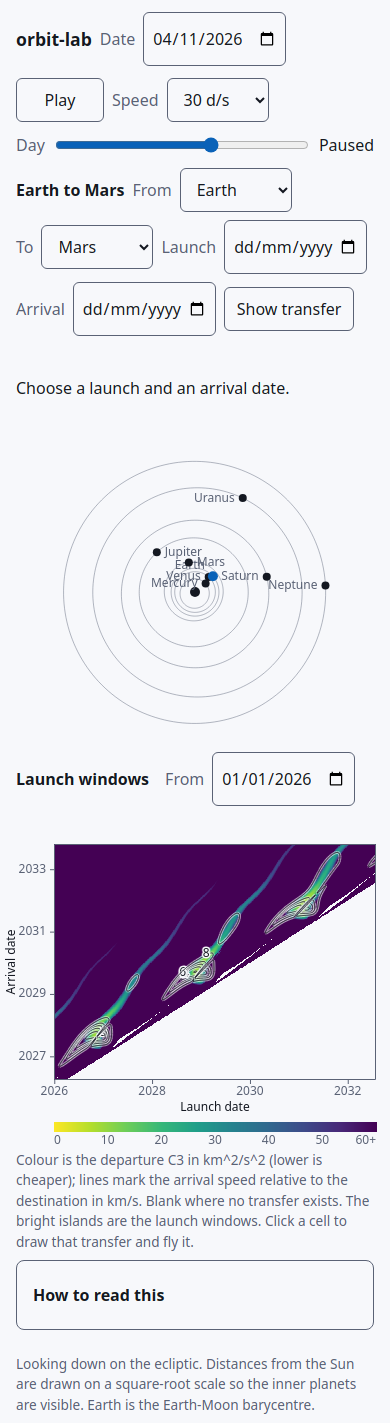
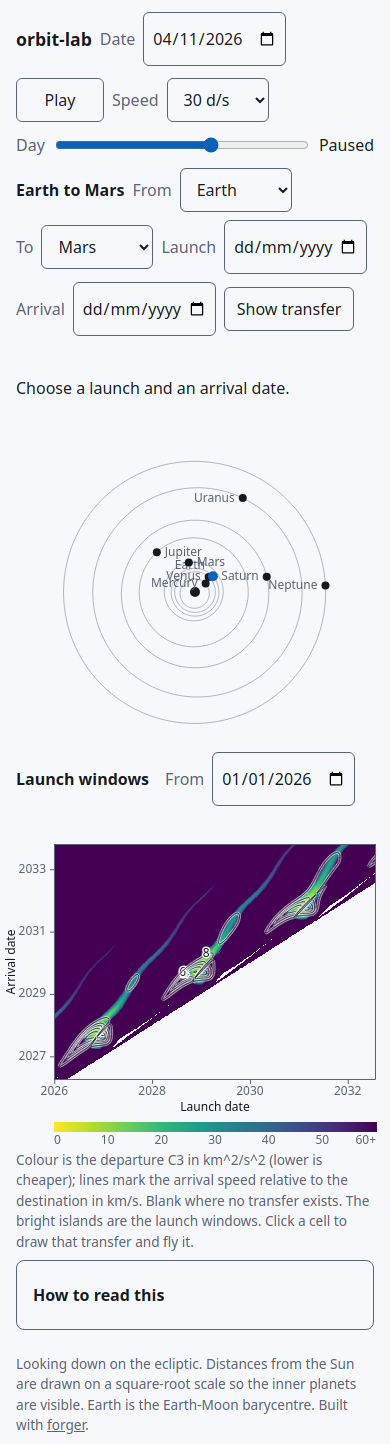
feat: say the app is built with forger, in the README and the page footer (#25)

diff --git a/src/credit.test.ts b/src/credit.test.ts
@@ -1,0 +1,18 @@
+import {expect, test} from 'bun:test';
+
+const forger = 'https://github.com/diegoaltoworks/forger';
+
+test('README credits forger directly under the first paragraph with both links', async () => {
+  const readme = await Bun.file(new URL('../README.md', import.meta.url)).text();
+  const lines = readme.split('\n');
+  const credit = lines.findIndex((l) => l.startsWith('> Built with [forger]'));
+  expect(credit).toBeGreaterThan(0);
+  expect(lines[credit]).toContain(`(${forger})`);
+  expect(lines[credit]).toContain(`(${forger}#readme)`);
+  expect(lines[credit - 2]).toStartWith('See the solar system');
+});
+
+test('page footer credits forger with a link', async () => {
+  const html = await Bun.file(new URL('../public/index.html', import.meta.url)).text();
+  expect(html).toMatch(/<footer>[^]*Built with <a href="https:\/\/github\.com\/diegoaltoworks\/forger">forger<\/a>[^]*<\/footer>/);
+});

diff --git a/public/index.html b/public/index.html
@@ -43,6 +43,7 @@
     #day{min-height:0}
   }
   footer{padding:.5rem 1rem;color:var(--muted);font-size:.85rem}
+  footer a{color:inherit}
 </style>
 </head>
 <body>
@@ -86,7 +87,7 @@
     <ul id="explain-sources"></ul>
   </details>
 </main>
-<footer>Looking down on the ecliptic. Distances from the Sun are drawn on a square-root scale so the inner planets are visible. Earth is the Earth-Moon barycentre.</footer>
+<footer>Looking down on the ecliptic. Distances from the Sun are drawn on a square-root scale so the inner planets are visible. Earth is the Earth-Moon barycentre. Built with <a href="https://github.com/diegoaltoworks/forger">forger</a>.</footer>
 <script type="module" src="main.js"></script>
 </body>
 </html>

diff --git a/README.md b/README.md
@@ -2,6 +2,8 @@
 
 See the solar system on any date and find the launch windows to other planets.
 
+> Built with [forger](https://github.com/diegoaltoworks/forger), an unattended development loop: every change here came from an issue, was built by an agent on its own branch, and merged only after the gates, CI and an independent verifier passed. See the [forger README](https://github.com/diegoaltoworks/forger#readme) for how it works.
+
 <picture>
   <source media="(prefers-color-scheme: dark)" srcset="docs/screenshots/index-desktop-dark.png">
   <img alt="The eight planets on their orbits beside a porkchop plot of Earth to Mars launch windows" src="docs/screenshots/index-desktop-light.png">
